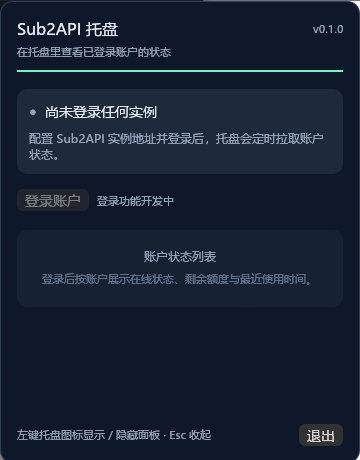
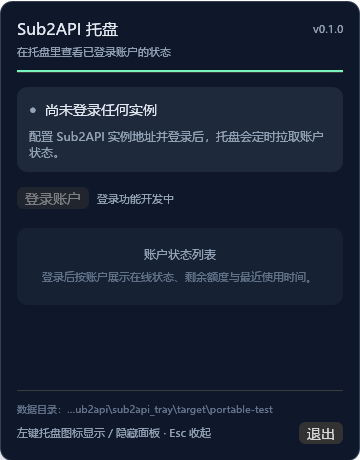
docs: 补充 0002 验证结果与 README 数据文件说明
记录 44 项测试、Windows 实机 6 项手工验证，以及 5 处与计划的偏差：data.rs 门面、非法值语义、面板布局、调试开关、临时 allow；README 增加数据文件与已知限制。

diff --git a/docs/plans/0002-data-layer.md b/docs/plans/0002-data-layer.md
@@ -4,7 +4,7 @@
 | --- | --- |
 | 编号 | 0002 |
 | 分支 | `feat/data-layer` |
-| 状态 | 计划中（等待确认后开工） |
+| 状态 | 已完成（待合入 dev） |
 | 提出日期 | 2026-10-18 |
 
 ## 一、背景
@@ -127,17 +127,20 @@
 
 ## 五、完成点
 
-* [ ] `src/paths.rs`：解析 exe 目录、可写探测（写临时文件后删除）、返回 `Result<PathBuf>`
-* [ ] `src/config.rs`：`AppConfig`（serde）、默认值、缺失字段补齐、坏文件隔离、非法值回落
-* [ ] `src/accounts.rs`：`AccountsFile`/`Account` 结构、`load`/`save`（原子写）、
+* [x] `src/paths.rs`：解析 exe 目录、可写探测（写临时文件后删除）、返回 `Result<PathBuf>`
+* [x] `src/config.rs`：`AppConfig`（serde）、默认值、缺失字段补齐、坏文件隔离、非法值回落
+* [x] `src/accounts.rs`：`AccountsFile`/`Account` 结构、`load`/`save`（原子写）、
       `add`/`remove`/`find`、唯一性校验、按 `createdAt` 排序、损坏隔离
-* [ ] `src/secrets.rs`：`SecretStore` 抽象 + Windows DPAPI 实现 + macOS 钥匙串实现
-* [ ] `src/mask.rs`：`mask_email` 及其单元测试
-* [ ] 启动时初始化：解析目录 → 探测可写 → 加载/创建两个文件 → 打印日志
-* [ ] 新增依赖并在 `AGENTS.md` 技术栈表登记：`serde`、`serde_json`、`uuid`、`time`、`base64`、
+* [x] `src/secrets.rs`：`SecretStore` 抽象 + Windows DPAPI 实现 + macOS 钥匙串实现
+* [x] `src/mask.rs`：`mask_email` 及其单元测试
+* [x] 启动时初始化：解析目录 → 探测可写 → 加载/创建两个文件 → 打印日志
+* [x] 新增依赖并在 `AGENTS.md` 技术栈表登记：`serde`、`serde_json`、`uuid`、`time`、`base64`、
       （Windows）`windows-sys`、（macOS）`security-framework`，开发依赖 `tempfile`
-* [ ] 单元测试：打码 6 例、排序、去重、schema 往返、损坏隔离、原子写、DPAPI 往返（Windows）
-* [ ] 在 `docs/plans/0001` 的路线表与 `AGENTS.md` 阶段表里把阶段 1 标记为进行中
+* [x] 单元测试：打码 7 例、排序、去重、schema 往返、损坏隔离、原子写、DPAPI 往返（Windows）
+* [x] 在 `AGENTS.md` 阶段表里把数据层标记为已完成（阶段 1a）
+
+> 计划外的补充（见“结果”里的偏差记录）：新增 `src/data.rs` 门面模块；
+> 面板改为“顶/底固定 + 中间滚动”；调试开关在生效时不再因失焦收起。
 
 ## 六、验收标准
 
@@ -146,7 +149,8 @@
 2. 操作：删除 `app.json` 后重启 → 预期：自动重建默认配置，日志出现"已创建默认 app.json"。
 3. 操作：把 `app.json` 改成非法 JSON 后重启 → 预期：原文件被改名为
    `app.json.corrupt-<时间戳>`，程序用默认配置正常启动，日志有 `warn`。
-4. 操作：把 `app.json` 的 `maskAccounts` 改成 `true`、`refreshIntervalSeconds` 改成 `-5` → 预期：
+4. 操作：把 `app.json` 的 `maskAccounts` 改成 `true`、`refreshIntervalSeconds` 改成 `0`
+   （`u64` 无法表示负数，写 `-5` 属于类型错误，会走第 3 条的整份隔离路径）→ 预期：
    打码开关生效；非法间隔回落到 300 并在日志中 `warn`。
 5. 操作：把 `accounts.json` 改成非法 JSON 后重启 → 预期：原文件被隔离备份，账号列表为空，
    程序不崩溃，日志说明原因。
@@ -186,9 +190,12 @@
 
 ## 九、涉及文件
 
-* 新增：`src/paths.rs`、`src/config.rs`、`src/accounts.rs`、`src/secrets.rs`、`src/mask.rs`
-* 修改：`src/main.rs`（启动时初始化数据层并记录日志）、`Cargo.toml`（依赖）
-* 文档：`AGENTS.md`（技术栈表、阶段表）、`README.md`（数据文件位置说明）
+* 新增：`src/paths.rs`、`src/config.rs`、`src/accounts.rs`、`src/secrets.rs`、`src/mask.rs`、
+  `src/data.rs`（计划外补充：数据层门面）
+* 修改：`src/main.rs`（启动时初始化数据层并记录日志）、`src/app.rs`（数据目录提示、
+  红色错误横幅、面板滚动布局）、`Cargo.toml`（依赖）
+* 文档：`AGENTS.md`（技术栈表、阶段表、数据文件章节）、`README.md`（数据文件说明）、
+  `docs/panel-preview.png`（面板截图更新）
 * 测试：各模块内 `#[cfg(test)] mod tests`
 
 ## 十、后续计划依赖（预告）
@@ -200,4 +207,52 @@
 
 ## 十一、结果
 
-> 完成后填写。
+* 完成日期：2026-10-18
+* 分支：`feat/data-layer`
+
+### 验证记录
+
+**自动化**
+
+* `cargo fmt --check` → 通过；
+* `cargo clippy --all-targets -- -D warnings` → 通过，零警告；
+* `cargo test` → **44 passed / 0 failed**（新增：`mask` 7 例、`paths` 6 例、`config` 5 例、
+  `accounts` 13 例、`secrets` 5 例、`data` 2 例，其余为 0001 的定位用例）；
+* `cargo build` → 通过。
+
+**Windows 实机手工验证**（2560×1440，100% 缩放）
+
+1. 把 exe 单独拷到空目录运行 → 该目录生成
+   `app.json`（`schemaVersion=1, maskAccounts=false, refreshIntervalSeconds=300,
+   requestTimeoutSeconds=10`）与 `accounts.json`（`schemaVersion=1, accounts=[]`）；
+   启动日志打印数据目录与"已加载 0 个账号"。
+2. 删除 `app.json` 后重启 → 日志 `已创建默认配置文件`，文件重建为默认值。
+3. 把 `accounts.json` 写成非法 JSON 后重启 → 日志
+   `accounts.json 解析失败（expected value at line 1 column 1），将备份后用空列表重建`，
+   原文件被改名为 `accounts.json.corrupt-1792263620`，新文件为
+   `{"schemaVersion":1,"accounts":[]}`，程序正常启动。
+4. 用 `icacls /deny <用户>:(W)` 造出一个只读目录后运行 → 日志
+   `数据层初始化失败：数据目录不可写：…: 拒绝访问。 (os error 5)`；
+   目录内**只有 exe**，没有生成任何数据文件；面板顶部出现红色提示
+   “数据目录不可写，账号无法保存 / 请把程序移动到可写目录…后重启”。
+5. `maskAccounts=true` 的打码效果由单元测试 `data::tests::打码开关通过数据层生效` 与
+   `mask::tests::*` 覆盖（界面展示留到 0004 验收）。
+6. 日志中未出现任何明文密码或 token（`Credentials` 的 `Debug` 只打印长度）。
+
+### 与计划的偏差
+
+1. **新增 `src/data.rs`**：计划只列了 5 个数据模块。实现时需要一个把"目录 + 配置 + 账号 +
+   凭据存储"组装起来的门面，否则 `main` 与后续的 `app`/登录流程会各自拼装一遍。
+2. **验收标准 4 的样例从 `-5` 改为 `0`**：`refreshIntervalSeconds` 是 `u64`，
+   写负数会在 JSON 反序列化阶段就失败，走"整份隔离"而不是"字段回落"。
+3. **面板布局重构**：加红色横幅后原布局把页脚挤出面板，改为"顶部固定 + 底部固定 +
+   中间 ScrollArea"，并给页脚加不透明底色，避免滚动内容与页脚视觉重叠。
+4. **调试开关增加"不自动收起"**：自动化截图时窗口拿不到焦点，原逻辑会让面板在截图前消失。
+5. **`accounts.rs`/`secrets.rs` 顶部临时 `#![allow(dead_code)]`**：这批 API 的调用方在
+   0003/0004 才出现，先把噪声压掉；两个计划接入后必须删掉这两行。
+
+### 遗留问题
+
+* macOS 的钥匙串实现只做了 `cargo check` 层面的编译验证，未实机运行（按用户确认延后）；
+* 单实例互斥未做：两个副本同时运行会互相覆盖 `accounts.json`（已在 README 记录）；
+* API Key 字段只做了 schema 预留，没有读写接口（0005 待规划）。

diff --git a/README.md b/README.md
@@ -5,14 +5,17 @@
 
 ![面板预览](docs/panel-preview.png)
 
-> 当前处于骨架阶段：托盘、面板、中文字体、开关逻辑已就绪，账户数据尚未接入。
+> 当前处于数据层就绪、登录待接入阶段：托盘、面板、中文字体、配置与账号文件、凭据加密已就绪，
+> 登录入口与账号列表在 0003 / 0004 计划中实现。
 
 ## 当前进度
 
 | 阶段 | 内容 | 状态 |
 | --- | --- | --- |
-| 0 | 托盘图标 + 右键菜单 + 可弹出/收起的面板 | ✅ 已完成 |
-| 1 | 配置实例地址、登录、拉取账户与用量 | ⏳ 待规划 |
+| 0 | 托盘图标 + 右键菜单 + 可弹出/收起的面板 | ✅ 已完成（0001） |
+| 1a | 数据层：`app.json`、`accounts.json`、DPAPI/钥匙串加密、账号名打码 | ✅ 已完成（0002） |
+| 1b | 登录：面板顶部入口 + 弹窗 + 2FA | ⏳ 计划已评审（0003） |
+| 1c | 托盘账号子菜单、状态刷新、删除账号 | ⏳ 计划已评审（0004） |
 | 2 | 定时刷新、托盘图标状态着色 | ⏳ 待规划 |
 | 3 | 设置页、开机自启、单实例、自动更新 | ⏳ 待规划 |
 
@@ -24,7 +27,44 @@
 * 面板自动吸附到托盘图标旁（Windows 在图标上方，macOS 在图标下方），
   并会自动避开屏幕边缘；
 * 点击面板外部或按 `Esc` 自动收起；
-* 界面中文正常渲染（运行时加载系统中文字体，不额外分发字体文件）。
+* 界面中文正常渲染（运行时加载系统中文字体，不额外分发字体文件）；
+* 数据文件：`app.json`（环境参数）与 `accounts.json`（账号，预留 API Key）与程序同目录，
+  首次运行自动生成，损坏时自动备份重建；
+* 密码与 token 经系统密钥库加密后落盘（Windows DPAPI / macOS 钥匙串）；
+* 账号名可按 `app.json` 的 `maskAccounts` 开关打码展示；
+* 数据目录不可写时，面板顶部显示红色提示，不写任何文件、不静默换目录。
+
+## 数据文件
+
+两个文件都放在**可执行文件所在目录**（便携式：程序拷到哪，数据就在哪）。
+
+`app.json`（首次运行自动生成）：
+
+```json
+{
+  "schemaVersion": 1,
+  "maskAccounts": false,
+  "refreshIntervalSeconds": 300,
+  "requestTimeoutSeconds": 10
+}
+```
+
+`accounts.json`（登录成功后由程序写入，当前为空）：
+
+```json
+{
+  "schemaVersion": 1,
+  "accounts": []
+}
+```
+
+说明：
+
+* `maskAccounts` 改成 `true` 后重启，账号名会显示为 `zh***@ex***.com` 这类形式；
+* 两个文件改完都需要**重启**才生效（不做热加载）；
+* 文件写坏（JSON 语法错误）时，程序会把原文件改名为 `<原名>.corrupt-<时间戳>`，
+  再用默认值重建，账号列表不会因此让程序无法启动；
+* 账号顺序按 `createdAt`（添加时间）升序，由程序维护。
 
 ## 构建与运行
 
@@ -62,10 +102,16 @@ sub2api_tray/
 ├── docs/plans/           # 功能计划与验收标准（每次新功能先写计划）
 ├── assets/tray-icon.png  # 托盘图标（内嵌进二进制）
 └── src/
-    ├── main.rs           # 入口与窗口初始形态
+    ├── main.rs           # 入口、数据层初始化、窗口初始形态
     ├── app.rs            # 面板状态机与界面绘制
     ├── tray.rs           # 托盘图标、菜单、事件桥
-    └── fonts.rs          # 系统中文字体加载
+    ├── fonts.rs          # 系统中文字体加载
+    ├── paths.rs          # 数据目录、可写探测、原子写入
+    ├── config.rs         # app.json
+    ├── accounts.rs       # accounts.json（排序、去重、增删）
+    ├── secrets.rs        # DPAPI / 钥匙串凭据加密
+    ├── mask.rs           # 账号名打码
+    └── data.rs           # 数据层门面
 ```
 
 ## 开发约定（摘要）
@@ -80,9 +126,11 @@ sub2api_tray/
 ## 已知限制
 
 * Linux 不在支持范围内；
-* macOS 尚未在实机上验收；
+* macOS 尚未在实机上验收（含钥匙串读写与菜单栏定位）；
 * Windows 11 默认会把新托盘图标放进“溢出区”，需要在系统设置里手动固定到任务栏；
-* 托盘图标目前是占位图，正式图标待定。
+* 托盘图标目前是占位图，正式图标待定；
+* 程序放在 `Program Files` 等只读目录时无法保存账号，会显示红色提示并要求换目录；
+* 暂不支持单实例互斥：同时启动两个副本会互相覆盖 `accounts.json`。
 
 ## 许可证
 
